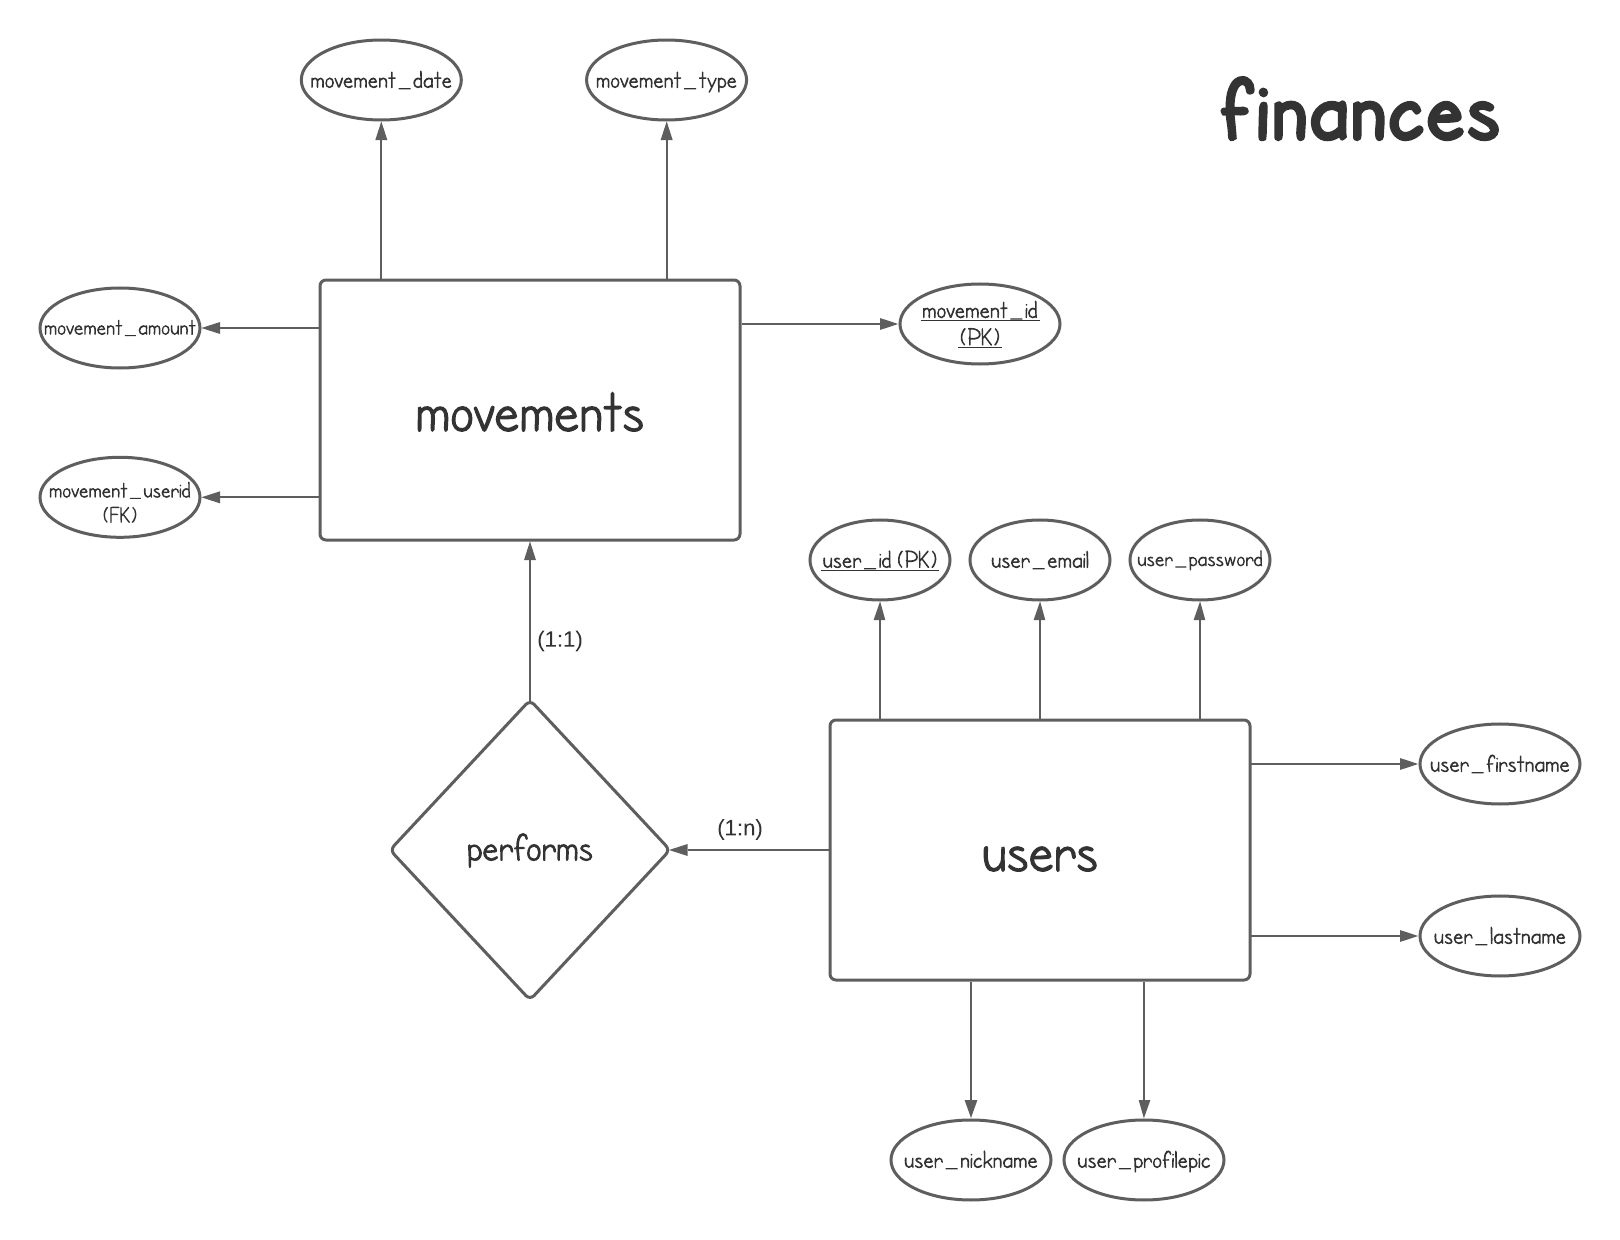
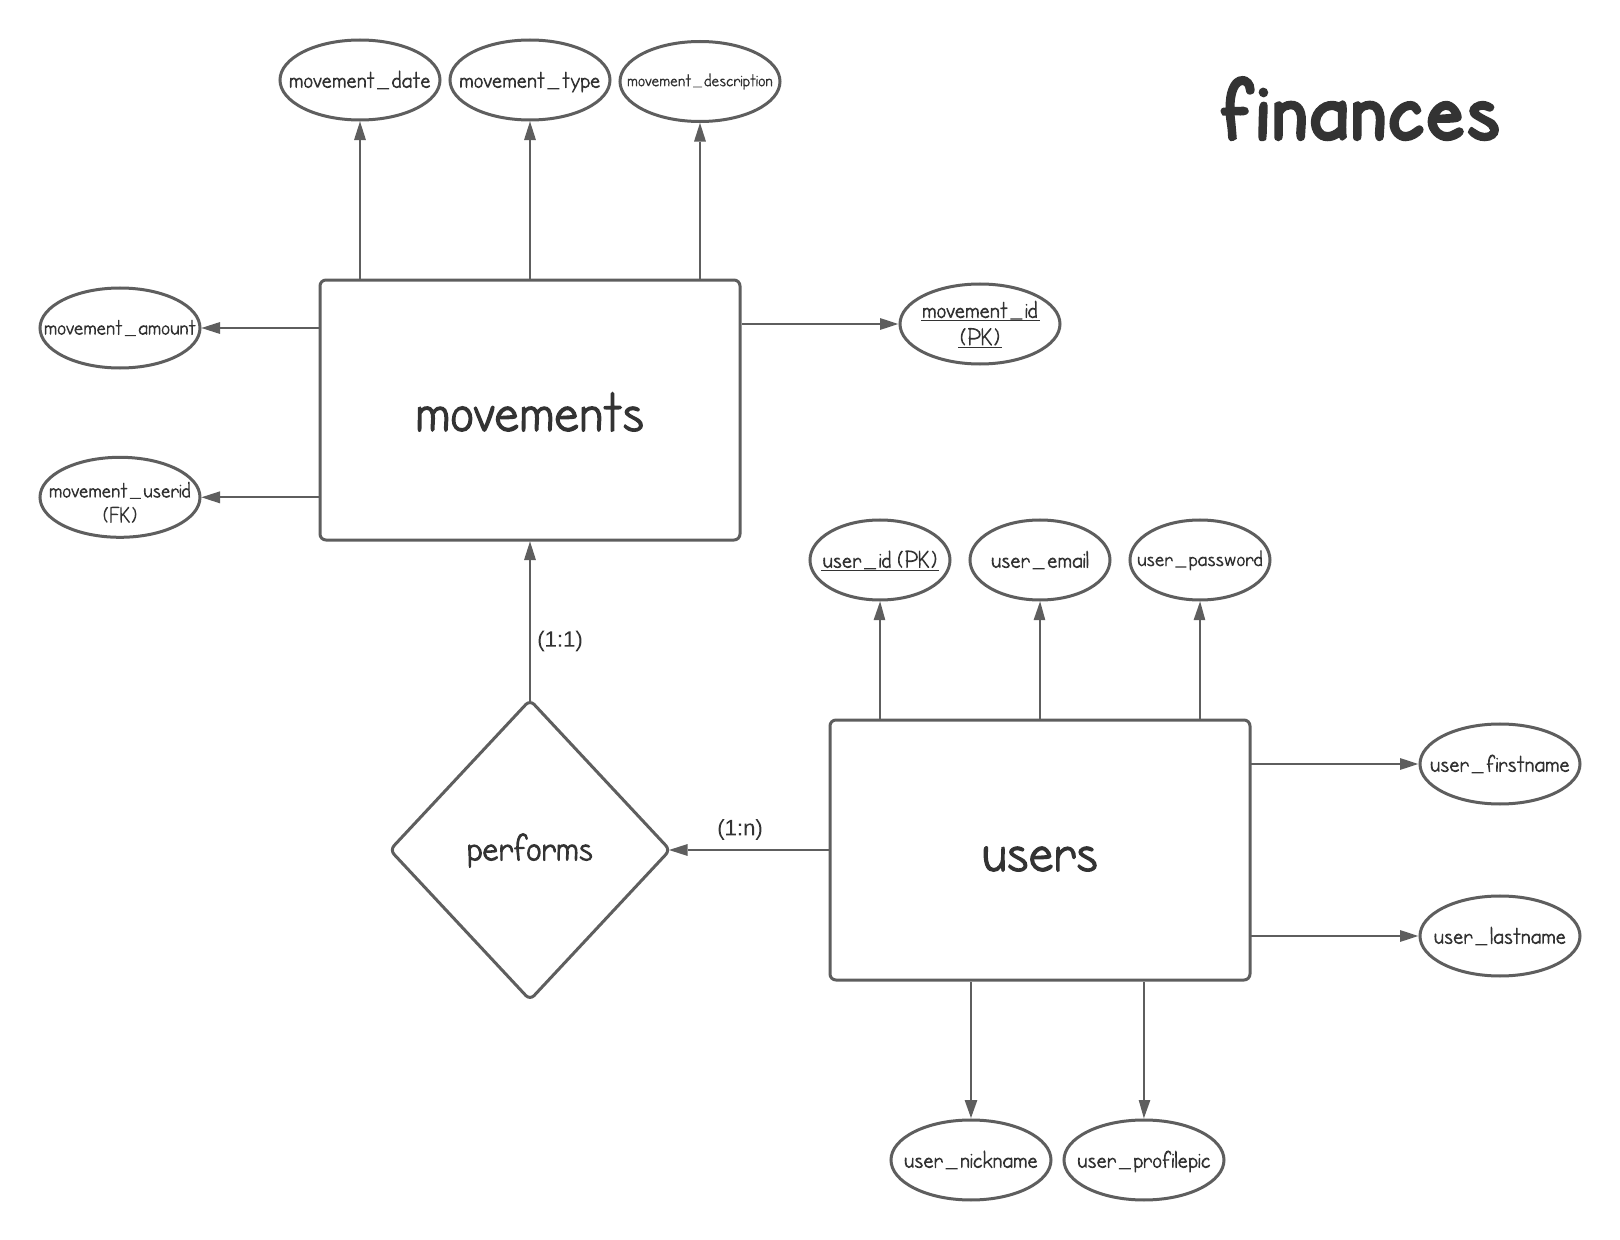
SERVER: Refactor. Better approach to MVC.

Changed region(s): [[0.1543, 0.0306, 0.4938, 0.1226]]

diff --git a/server/models/movements.js b/server/models/movements.js
@@ -1,10 +1,10 @@
 'use-strict'
 
 // DB connector helper
-const pool = require('./helpers/dbConnect').pool;
+const pool = require('./helpers/dbConnect');
 
 // Response helper
-const handleResponse = require('./helpers/handleResponse').handleResponse;
+const handleResponse = require('./helpers/handleResponse');
 
 const getMovementsByUserId = (request, response) => {
 
@@ -19,9 +19,9 @@ const getMovementsByUserId = (request, response) => {
 
 const createMovement = (request, response) => {
 
-    const { date, type, amount, userid } = request.body;
+    const { date, description, type, amount, userid } = request.body;
     
-    pool.query('INSERT INTO movements (movement_date, movement_type, movement_amount, movement_userid) VALUES ($1, $2, $3, $4)', [date, type, amount, userid], (error, results) => {
+    pool.query('INSERT INTO movements (movement_date, movement_description, movement_type, movement_amount, movement_userid) VALUES ($1, $2, $3, $4, $5)', [date, description, type, amount, userid], (error, results) => {
 
         handleResponse( error, response, results );
 
@@ -32,9 +32,9 @@ const updateMovement = (request, response) => {
 
     const id = parseInt(request.params.id);
 
-    const { date, type, amount, userid } = request.body;
+    const { date, description, type, amount, userid } = request.body;
     
-    pool.query('UPDATE movements SET movement_date = $1, movement_type = $2, movement_amount = $3, movement_userid = $4 WHERE movement_id = $5', [date, type, amount, userid, id], (error, results) => {
+    pool.query('UPDATE movements SET movement_date = $1, movement_description = $2, movement_type = $3, movement_amount = $4, movement_userid = $5 WHERE movement_id = $6', [date, description, type, amount, userid, id], (error, results) => {
 
         handleResponse( error, response, results );
 

diff --git a/server/models/users.js b/server/models/users.js
@@ -1,10 +1,10 @@
 'use-strict'
 
 // DB connector helper
-const pool = require('./helpers/dbConnect').pool;
+const pool = require('./helpers/dbConnect');
 
 // Response helper
-const handleResponse = require('./helpers/handleResponse').handleResponse;
+const handleResponse = require('./helpers/handleResponse');
 
 const getUsers = (request, response) => {
     
@@ -40,7 +40,7 @@ const createUser = (request, response) => {
 const updateUser = (request, response) => {
 
     const id = parseInt(request.params.id);
-
+    
     const { firstname, lastname, nickname, profilepic, password, email } = request.body;
     
     pool.query('UPDATE users SET user_firstname = $1, user_lastname = $2, user_nickname = $3, user_profilepic = $4, user_password = $5, user_email = $6 WHERE user_id = $7', [firstname, lastname, nickname, profilepic, password, email, id], (error, results) => {

diff --git a/server/app.js b/server/app.js
@@ -1,0 +1,25 @@
+'use-strict'
+
+const bodyParser = require('body-parser');
+const app = require('./helpers/express');
+const port = process.env.PORT || 4000;
+
+app.use(bodyParser.json());
+
+app.use(
+    bodyParser.urlencoded({
+    extended: true,
+    })
+);
+
+app.get('/', (request, response) => {
+    response.json({ info: 'Finances App API' })
+});
+
+app.listen(port, () => {
+    console.log(`Finances App running on port ${port}.`)
+});
+
+// Controllers
+const usersRoutes = require('./controllers/users');
+const movementsRoutes = require('./controllers/movements');

diff --git a/server/controllers/movements.js b/server/controllers/movements.js
@@ -1,0 +1,12 @@
+'use strict'
+
+const movementsRoutes = require('../helpers/express');
+const movementsDb = require('../models/movements');
+
+// Movements Routes
+movementsRoutes.get('/api/movements/:id', movementsDb.getMovementsByUserId);
+movementsRoutes.post('/api/movements', movementsDb.createMovement);
+movementsRoutes.put('/api/movements/:id', movementsDb.updateMovement);
+movementsRoutes.delete('/api/movements/:id', movementsDb.deleteMovement);
+
+module.exports = movementsRoutes;

diff --git a/server/controllers/users.js b/server/controllers/users.js
@@ -1,0 +1,13 @@
+'use strict'
+
+const usersRoutes = require('../helpers/express');
+const usersDb = require('../models/users');
+
+// Users Routes
+usersRoutes.get('/api/users', usersDb.getUsers);
+usersRoutes.get('/api/users/:id', usersDb.getUserById);
+usersRoutes.post('/api/users', usersDb.createUser);
+usersRoutes.put('/api/users/:id', usersDb.updateUser);
+usersRoutes.delete('/api/users/:id', usersDb.deleteUser);
+
+module.exports = usersRoutes;

diff --git a/server/models/helpers/dbConnect.js b/server/models/helpers/dbConnect.js
@@ -4,4 +4,4 @@ require('dotenv').config();
 const { Pool } = require('pg');
 const pool = new Pool();
 
-module.exports = { pool }
+module.exports = pool;

diff --git a/server/models/helpers/handleResponse.js b/server/models/helpers/handleResponse.js
@@ -28,4 +28,4 @@ const handleResponse = ( err, res, result ) => {
 
 }
 
-module.exports = { handleResponse }
+module.exports = handleResponse;

diff --git a/server/helpers/express.js b/server/helpers/express.js
@@ -1,0 +1,6 @@
+'use strict'
+
+const express = require('express');
+const app = express();
+
+module.exports = app;
